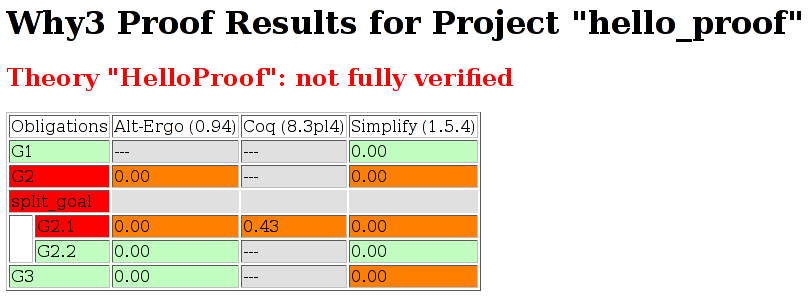
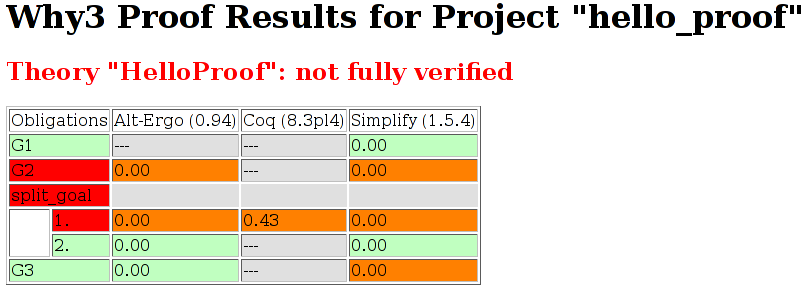
fix doc after change in explanation system

Changed region(s): [[0.0, 0.3322, 0.6188, 0.9664], [0.0, 0.0, 0.9901, 0.151], [0.0, 0.2114, 0.6498, 0.302]]

diff --git a/doc/manpages.tex b/doc/manpages.tex
@@ -849,8 +849,8 @@ There are three styles of output: `table', `simpletree', and
 <td bgcolor="#C0FFC0" colspan="2">G1</td><td bgcolor="#E0E0E0">---</td><td bgcolor="#E0E0E0">---</td><td bgcolor="#C0FFC0">0.00</td></tr>
 <td bgcolor="#FF0000" colspan="2">G2</td><td bgcolor="#FF8000">0.00</td><td bgcolor="#E0E0E0">---</td><td bgcolor="#FF8000">0.00</td></tr>
 <tr><td bgcolor="#FF0000" colspan="2">split_goal</td><td bgcolor="#E0E0E0"></td><td bgcolor="#E0E0E0"></td><td bgcolor="#E0E0E0"></td></tr>
-<td rowspan="2">&nbsp;&nbsp;</td><td bgcolor="#FF0000" colspan="1">G2.1</td><td bgcolor="#FF8000">0.00</td><td bgcolor="#FF8000">0.43</td><td bgcolor="#FF8000">0.00</td></tr>
-<tr><td bgcolor="#C0FFC0" colspan="1">G2.2</td><td bgcolor="#C0FFC0">0.00</td><td bgcolor="#E0E0E0">---</td><td bgcolor="#C0FFC0">0.00</td></tr>
+<td rowspan="2">&nbsp;&nbsp;</td><td bgcolor="#FF0000" colspan="1">1.</td><td bgcolor="#FF8000">0.00</td><td bgcolor="#FF8000">0.43</td><td bgcolor="#FF8000">0.00</td></tr>
+<tr><td bgcolor="#C0FFC0" colspan="1">2.</td><td bgcolor="#C0FFC0">0.00</td><td bgcolor="#E0E0E0">---</td><td bgcolor="#C0FFC0">0.00</td></tr>
 <td bgcolor="#C0FFC0" colspan="2">G3</td><td bgcolor="#C0FFC0">0.00</td><td bgcolor="#E0E0E0">---</td><td bgcolor="#FF8000">0.00</td></tr>
 </table>
 \end{rawhtml}

diff --git a/doc/HelloProof-style2.tex b/doc/HelloProof-style2.tex
@@ -7,9 +7,9 @@
 \cline{2-4} 
 \quad\transformation{split\_goal} & \multicolumn{3}{|c|}{}\\ 
 \cline{2-4} 
-\quad\subgoal{G2.1}{1} & \unknown{0.00} & \unknown{0.43} & \unknown{0.00} \\ 
+\quad\subgoal{1.}{1} & \unknown{0.00} & \unknown{0.43} & \unknown{0.00} \\ 
 \cline{2-4} 
-\quad\subgoal{G2.2}{2} & \valid{0.00} & \noresult& \valid{0.00} \\ 
+\quad\subgoal{2.}{2} & \valid{0.00} & \noresult& \valid{0.00} \\ 
 \hline 
 \explanation{G3} & \valid{0.00} & \noresult& \unknown{0.00} \\ 
 \hline \end{tabular}

diff --git a/doc/HelloProof.tex b/doc/HelloProof.tex
@@ -5,9 +5,9 @@
 \hline 
 \explanation{G2} & & \unknown{0.00} & \noresult& \unknown{0.00} \\ 
 \cline{2-4} 
- & \explanation{G2.1} & \unknown{0.00} & \unknown{0.43} & \unknown{0.00} \\ 
+ & \explanation{1.} & \unknown{0.00} & \unknown{0.43} & \unknown{0.00} \\ 
 \cline{2-5} 
- & \explanation{G2.2} & \valid{0.00} & \noresult& \valid{0.00} \\ 
+ & \explanation{2.} & \valid{0.00} & \noresult& \valid{0.00} \\ 
 \hline 
 \explanation{G3} & & \valid{0.00} & \noresult& \unknown{0.00} \\ 
 \hline \end{tabular}
